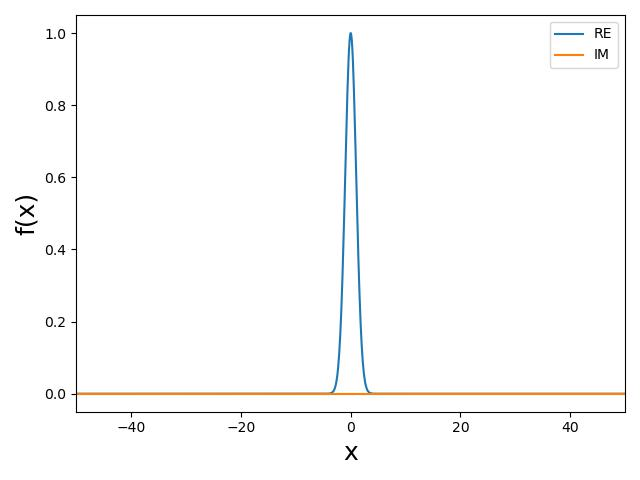
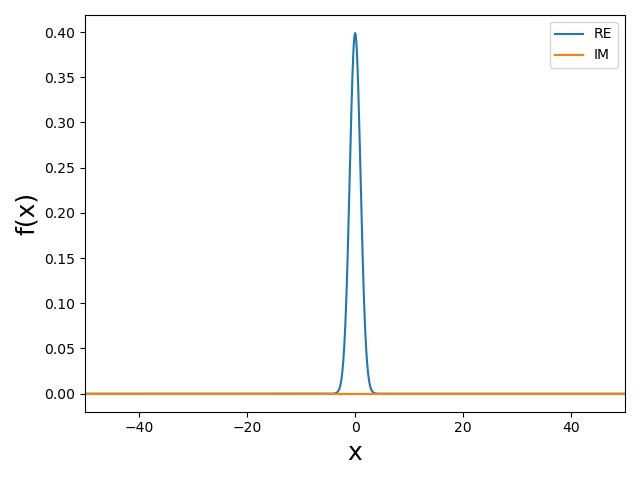
Update DFT

diff --git a/notes/codes/Chapter_4/1_Fourier_Transform_on_a_Discrete_Grid.py b/notes/codes/Chapter_4/1_Fourier_Transform_on_a_Discrete_Grid.py
@@ -23,7 +23,7 @@ def getGlobals():
 def get_f_x():
     
     # Gaussian Function
-    f_x = np.exp(-x**2 / 2) + 0j
+    f_x = np.sqrt(1/2/np.pi) * np.exp(-x**2 / 2) + 0j
     
     # Sinusoidal function of frequency k = +- 1
     #f_x = np.sin( 2 * np.pi * x ) + 0j
@@ -99,7 +99,6 @@ def get_FT_Centered( f_x ):
     a = (Nx)//2
     W = np.exp( -2j*np.pi * (m-a) * (n-a) / Nx )
     
-    
     # Operate W on the real-space function
     f_k = W @ f_x
     
@@ -117,15 +116,18 @@ def get_numpy_FT( f_x ):
     f_k = np.roll( f_k, Nx//2 )
     k    = np.roll( k, Nx//2 )
 
-    print("kmax (Numpy)", round(np.max(k),2))
-
     return k, f_k
 
 def plot_f_k(k,f_k,k_np,f_k_np,title):
     plt.plot( k, np.abs(f_k.real), "-", c='black', lw=10, alpha=0.5, label="RE (Manual)" )
     plt.plot( k, np.abs(f_k.imag), "o-", c='black', lw=10, alpha=0.5, label="IM (Manual)" )
+
     plt.plot( k_np,np.abs(f_k_np.real),"-", c='red', lw=2, label="RE (Numpy)" )
     plt.plot( k_np,np.abs(f_k_np.imag), "o-", c='red', lw=2, label="IM (Numpy)" )
+
+    # Gaussian function in k-space -- Analytic Result
+    #plt.plot( k, np.sqrt(1/2/np.pi) * np.exp(-2 * k**2 * np.pi**2), c="green", label="Gaussian" )
+
     plt.legend()
     plt.xlim(-2,2 )
     plt.xlabel("k", fontsize=18)
